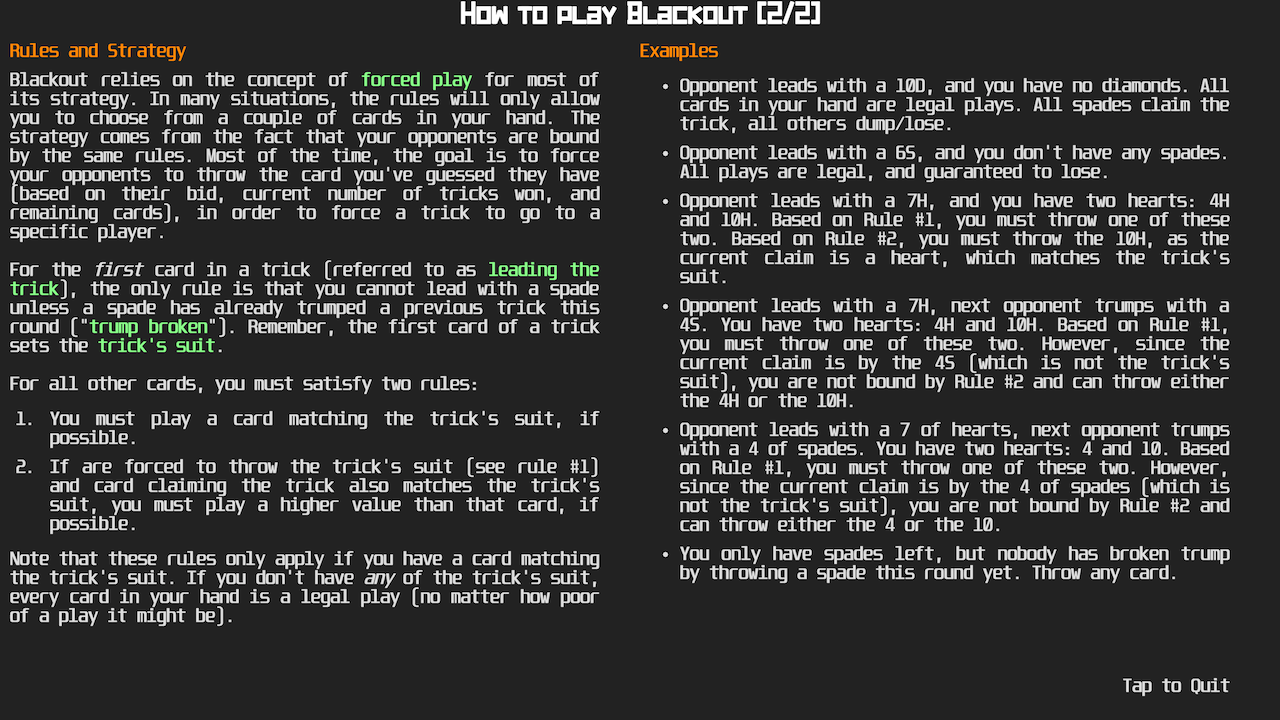
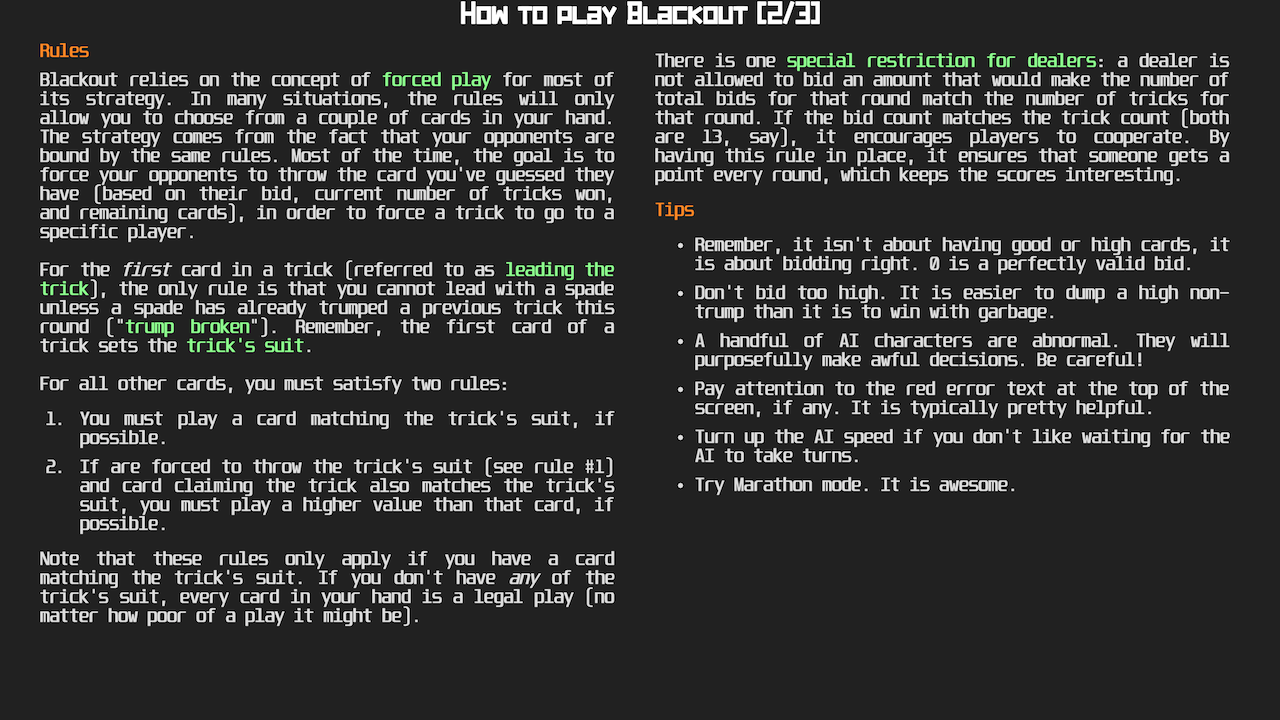
fix up all of the howto images and text, lots of other tweaks

diff --git a/howto/index.html b/howto/index.html
@@ -17,7 +17,7 @@ body {
   background-color: black;
 }
 
-#page1, #page2 {
+.page {
   width: 1280px;
   height: 720px;
   background-color: #222222;
@@ -52,15 +52,23 @@ blockquote {
   margin-bottom: 10px;
 }
 
+table {
+  margin-left: 30px;
+}
+
 .tap {
   text-align: right;
 }
 
 .tap1 {
-  margin-top: 120px;
+  margin-top: 10px;
 }
 .tap2 {
-  margin-top: 40px;
+  margin-top: 10px;
+}
+
+.card {
+  color: #ffffbb;
 }
 
 li {
@@ -74,9 +82,9 @@ li {
 </style>
 </head>
 <body>
-  <div id="page1">
+  <div class="page" id="page1">
     <div class="content">
-      <div class="title">How to play Blackout [1/2]</div>
+      <div class="title">How to play Blackout [1/3]</div>
 
         <table cellpadding="0" cellspacing="0" border="0"><tr><td valign="top" width="50%">
 
@@ -85,7 +93,7 @@ li {
             <blockquote>
               Blackout is a trick-taking card game similar to Spades, played over a series of rounds, with each round having a series of tricks.
               <br><br>
-              The objective of the regular game is to have the *lowest* score at the end of the rounds. The objective of Marathon mode is to see how many rounds you can last without ever scoring a point.
+              The objective of the regular game is to have the <span class="hl">lowest score</span> at the end of the rounds. The objective of Marathon mode is to see how many rounds you can last without ever scoring a point.
               <br><br>
               The amount of rounds and tricks per round is decided when the game is created, and each round can have a differing number of tricks. For example, "3 to 13" means to play 11 rounds, with the first round having 3 tricks, and the last round having 13 tricks. The preferred trick size is 13 in a 4 player game, as it uses all of the cards, which offers the most opportunity for strategy.
             </blockquote>
@@ -115,15 +123,24 @@ li {
             <blockquote>
               The first card thrown for each trick sets the trick's <span class="hl">suit</span>, which is key to deciding which card wins the trick. The highest card (Ace high) matching the trick's suit will win the trick, unless a <span class="hl">trump card</span> (any spade) is played, which always beats the trick's suit. Any suit other than the trick's suit (suit that started the trick) or the trump suit (spades) is considered a <span class="hl">dump</span>. Dump cards are guaranteed losers regardless of value, which is often desirable to make sure you only win the amount of tricks that you bid.
               <br><br>
-              For example, say the first card thrown was an 8 of diamonds. If the next card thrown was a 3 of spades, it would "claim" the trick (become the tentative winner). If the third card thrown was a 7 of spades, it'd claim the trick over the earlier, lower spade. And if the last card was a king of clubs, it would be considered a dump as it isn't a diamond or spade. The player who threw the 7 of spades would win the trick.
+              For example, say the first card thrown was <span class="card">8D</span>. If the next card thrown was <span class="card">3D</span>, it would "claim" the trick (become the tentative winner). If the third card thrown was a <span class="card">7S</span>, it'd claim the trick over the earlier, lower spade. And if the last card was a king of clubs, it would be considered a dump as it isn't a diamond or spade. The player who threw <span class="card">7S</span> would win the trick.
             </blockquote>
           </div>
 
+          <div class="paragraph">
+            <span class="header">Scoring</span><br>
+            <blockquote>
+              You earn <span class="hlbad">penalty points</span> for each undertrick/overtrick you bid. You earn 1 for being off by 1, 3 (1+2) for being off by 2, 6 (1+2+3) for being off by 3, etc.
+            </blockquote>
+          </div>
+
+          <!--
           <div class="paragraph tap tap1">
             <blockquote>
               Tap for Next Page
             </blockquote>
           </div>
+          -->
 
         </td></tr></table>
 
@@ -131,14 +148,14 @@ li {
     </div>
   </div>
 
-  <div id="page2">
+  <div class="page" id="page2">
     <div class="content">
-      <div class="title">How to play Blackout [2/2]</div>
+      <div class="title">How to play Blackout [2/3]</div>
 
         <table cellpadding="0" cellspacing="0" border="0"><tr><td valign="top" width="50%">
 
           <div class="paragraph">
-            <span class="header">Rules and Strategy</span><br>
+            <span class="header">Rules</span><br>
             <blockquote>
               Blackout relies on the concept of <span class="hl">forced play</span> for most of its strategy. In many situations, the rules will only allow you to choose from a couple of cards in your hand. The strategy comes from the fact that your opponents are bound by the same rules. Most of the time, the goal is to force your opponents to throw the card you've guessed they have (based on their bid, current number of tricks won, and remaining cards), in order to force a trick to go to a specific player.
               <br><br>
@@ -157,26 +174,76 @@ li {
         </td><td valign="top" width="50%">
 
           <div class="paragraph">
+            <blockquote>
+              There is one <span class="hl">special restriction for dealers</span>: a dealer is not allowed to bid an amount that would make the number of total bids for that round match the number of tricks for that round. If the bid count matches the trick count (both are 13, say), it  encourages players to cooperate. By having this rule in place, it ensures that someone gets a point every round, which keeps the scores interesting.
+            </blockquote>
+          </div>
+
+          <div class="paragraph">
+            <span class="header">Tips</span><br>
+            <blockquote>
+              <ul>
+                <li>Remember, it isn't about having good or high cards, it is about bidding right. 0 is a perfectly valid bid.</li>
+                <li>Don't bid too high. It is easier to dump a high non-trump than it is to win with garbage.</li>
+                <li>A handful of AI characters are abnormal. They will purposefully make awful decisions. Be careful!</li>
+                <li>Pay attention to the red error text at the top of the screen, if any. It is typically pretty helpful.</li>
+                <li>Turn up the AI speed if you don't like waiting for the AI to take turns.</li>
+                <li>Try Marathon mode. It is awesome.</li>
+              </ul>
+            </blockquote>
+          </div>
+
+          <!--
+          <div class="paragraph tap tap2">
+            <blockquote>
+              Tap to Quit
+            </blockquote>
+          </div>
+          -->
+        </td></tr></table>
+
+      </div>
+    </div>
+  </div>
+
+  <div class="page" id="page3">
+    <div class="content">
+      <div class="title">How to play Blackout [3/3]</div>
+
+        <table cellpadding="0" cellspacing="0" border="0"><tr><td valign="top" width="50%">
+          <div class="paragraph">
             <span class="header">Examples</span><br>
             <blockquote>
               <ul>
-                <li>Opponent leads with a 10D, and you have no diamonds. All cards in your hand are legal plays. All spades claim the trick, all others dump/lose.</li>
-                <li>Opponent leads with a 6S, and you don't have any spades. All plays are legal, and guaranteed to lose.</li>
-                <li>Opponent leads with a 7H, and you have two hearts: 4H and 10H. Based on Rule #1, you must throw one of these two. Based on Rule #2, you must throw the 10H, as the current claim is a heart, which matches the trick's suit.</li>
-                <li>Opponent leads with a 7H, next opponent trumps with a 4S. You have two hearts: 4H and 10H. Based on Rule #1, you must throw one of these two. However, since the current claim is by the 4S (which is not the trick's suit), you are not bound by Rule #2 and can throw either the 4H or the 10H.</li>
-                <li>Opponent leads with a 7 of hearts, next opponent trumps with a 4 of spades. You have two hearts: 4 and 10. Based on Rule #1, you must throw one of these two. However, since the current claim is by the 4 of spades (which is not the trick's suit), you are not bound by Rule #2 and can throw either the 4 or the 10.</li>
+                <li>Opponent leads with <span class="card">10D</span>, and you have no diamonds. All cards in your hand are legal plays. All spades claim the trick, all others dump/lose.</li>
+                <li>Opponent leads with <span class="card">6S</span>, and you don't have any spades. All plays are legal, and guaranteed to lose.</li>
+                <li>Opponent leads with <span class="card">7H</span>, and you have two hearts: <span class="card">4H</span> and <span class="card">10H</span>. Based on Rule #1, you must throw one of these two. Based on Rule #2, you must throw the <span class="card">10H</span>, as the current claim is a heart, which matches the trick's suit.</li>
+                <li>Opponent leads with <span class="card">7H</span>, next opponent trumps with a <span class="card">4S</span>. You have two hearts: <span class="card">4H</span> and <span class="card">10H</span>. Based on Rule #1, you must throw one of these two. However, since the current claim is by the <span class="card">4S</span> (which is not the trick's suit), you are not bound by Rule #2 and can throw either the <span class="card">4H</span> or the <span class="card">10H</span>.</li>
+                <li>Opponent leads with <span class="card">7H</span>, next opponent trumps with <span class="card">4S</span>. You have two hearts: <span class="card">4H</span> and <span class="card">10H</span>. Based on Rule #1, you must throw one of these two. However, since the current claim is by the <span class="card">4S</span> (which is not the trick's suit), you are not bound by Rule #2 and can throw either the <span class="card">4H</span> or the <span class="card">10H</span>.</li>
                 <li>You only have spades left, but nobody has broken trump by throwing a spade this round yet. Throw any card.</li>
               </ul>
               <br><br>
             </blockquote>
           </div>
 
+        </td><td valign="top" width="50%">
+
+          <div class="paragraph">
+            <span class="header">Author / Disclaimer</span><br>
+            <blockquote>
+              Created by Joe Drago (<span class="hl">joedrago@gmail.com</span>), 2015
+              <br><br>
+              I apologize in advance if any art in this slopped together pile is yours. I'm not trying to sell this for anything and it is completely open source. If you see something in here you that is yours and you want me to remove it, just email me.
+            </blockquote>
+          </div>
+
+          <!--
           <div class="paragraph tap tap2">
             <blockquote>
               Tap to Quit
             </blockquote>
           </div>
-
+          -->
         </td></tr></table>
 
       </div>

diff --git a/src/com/jdrago/blackout/BlackoutRenderer.java b/src/com/jdrago/blackout/BlackoutRenderer.java
@@ -46,7 +46,7 @@ public class BlackoutRenderer implements GLTextureView.Renderer
     private static final int TRIANGLE_VERTICES_DATA_POS_OFFSET = 0;
     private static final int TRIANGLE_VERTICES_DATA_UV_OFFSET = 3;
     private static final int[] QUAD_INDICES = {0, 1, 2, 2, 3, 0};
-    private static final int TEXTURE_COUNT = 7;
+    private static final int TEXTURE_COUNT = 6;
 
     private static final String VERTEX_SHADER =
             "uniform mat4 uMVPMatrix;\n" +
@@ -174,10 +174,9 @@ public class BlackoutRenderer implements GLTextureView.Renderer
         textures_[0] = loadPNG(R.raw.cards);
         textures_[1] = loadPNG(R.raw.darkforest);
         textures_[2] = loadPNG(R.raw.chars);
-        textures_[3] = loadPNG(R.raw.mainmenu);
-        textures_[4] = loadPNG(R.raw.pausemenu);
-        textures_[5] = loadPNG(R.raw.howto1);
-        textures_[6] = loadPNG(R.raw.howto2);
+        textures_[3] = loadPNG(R.raw.howto1);
+        textures_[4] = loadPNG(R.raw.howto2);
+        textures_[5] = loadPNG(R.raw.howto3);
     }
 
     // --------------------------------------------------------------------------------------------
